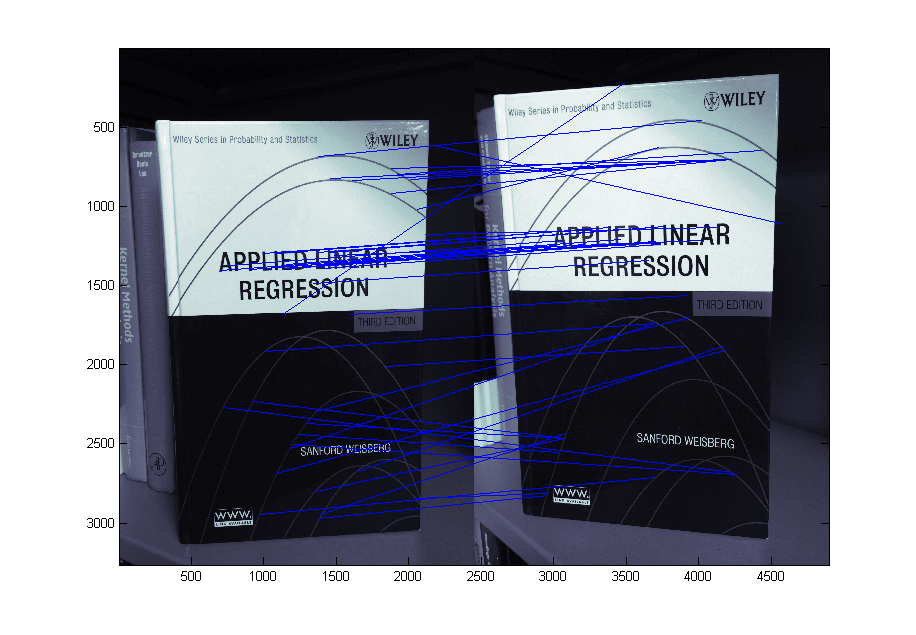
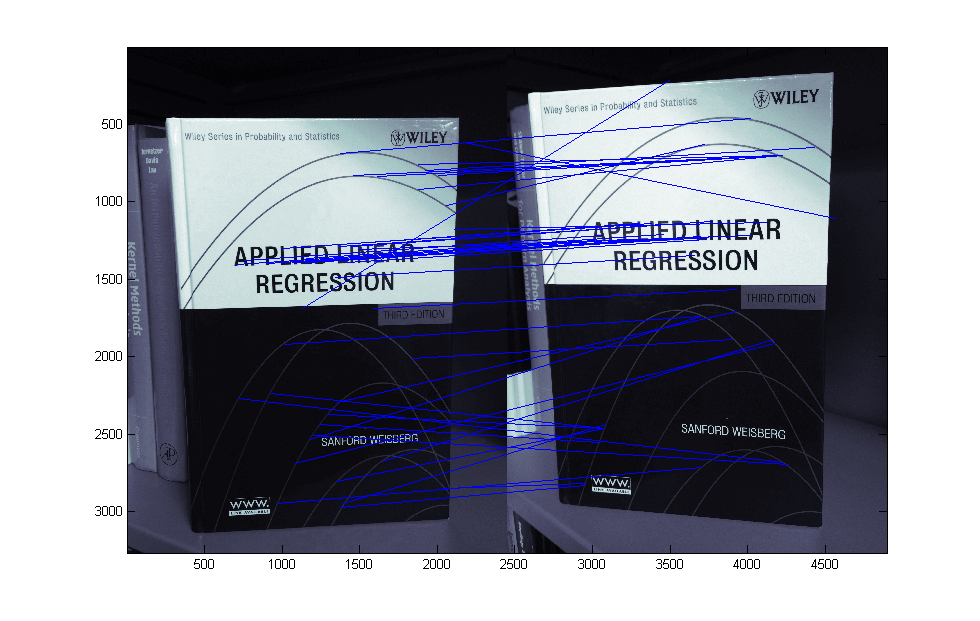
expanded prob2

diff --git a/Homework2/prob2script.m b/Homework2/prob2script.m
@@ -3,8 +3,8 @@
 %   will end up corresponding when running RANSAC
 
 %imageName = 'coffeeCan';
-imageName = 'squirtle';
-%imageName = 'book';
+%imageName = 'squirtle';
+imageName = 'book';
 image1 = strcat(imageName,'1.JPG');
 image2 = strcat(imageName,'2.JPG');
 %%
@@ -37,6 +37,34 @@ I2 = imread(image2);
 I2 = single(rgb2gray(I2));
 [f2,d2] = vl_sift(I2);
 
+%%
+%for squirtle using SIFT, make sure points where y<400 is not included
+%       this is bc we don't care about the gradient there
+f1a = zeros(size(f1)); d1a = zeros(size(d1)); 
+f2a = zeros(size(f2)); d2a = zeros(size(d2));
+index = 1;
+N1 = size(f1,2); N2 = size(f2,2);
+for i = 1:N1
+    if(f1(2,i)>400)
+        f1a(:,index)=f1(:,i);
+        d1a(:,index)=d1(:,i);
+        index = index + 1;
+    end
+    
+end
+index = index-1;
+f1 = f1a(:,1:index);d1 = d1a(:,1:index);
+index = 1;
+for i = 1:N2
+    if(f2(2,i)>400)
+        f2a(:,index)=f2(:,i);
+        d2a(:,index)=d2(:,i);
+        index = index + 1;
+    end
+end
+index = index-1;
+f2 = f2a(:,1:index);d2 = d2a(:,1:index);
+%%
 %does basic matching
 [matches, scores] = vl_ubcmatch(d1, d2) ;
 [bestScores,bestScoreInds] = sort(scores);
@@ -94,9 +122,9 @@ end
 
 %%
 
-imageName = 'squirtle';
+%imageName = 'squirtle';
 %imageName = 'coffeeCan';
-%imageName = 'book';
+imageName = 'book';
 image1 = strcat(imageName,'1.JPG');
 image2 = strcat(imageName,'2.JPG');
 I1 = imread(image1);

diff --git a/Homework2/HW2_solution.tex b/Homework2/HW2_solution.tex
@@ -157,7 +157,7 @@ The code for this problem is in the folder as prob1script.m
 
 \section*{Problem 2}
 
-For problem 2, I used the same images as the previous problem and I used points chosen by myself as well as points chosen through SIFT. The first part of this write-up shows the results when I used my own parts. The second part of the write up shows the results when I used the points found through SIFT. As it turns out, the points found using SIFT gave much better results. 
+For problem 2, I used the same images as the previous problem and I used points chosen by myself as well as points chosen through SIFT. The first part of this write-up shows the results when I used my own parts. The second part of the write up shows the results when I used the points found through SIFT. As it turns out, the points found using SIFT gave much better results. With my own points, I made sure they were selected in the same order in both images so the matches had the same index. With the SIFT points, I used the matching results from running ubcmatch. In both cases, I decided to test each matching pair using RANSAC in order to get a final set of pairs. 
 
 \subsection*{Part A, My Points}
 
